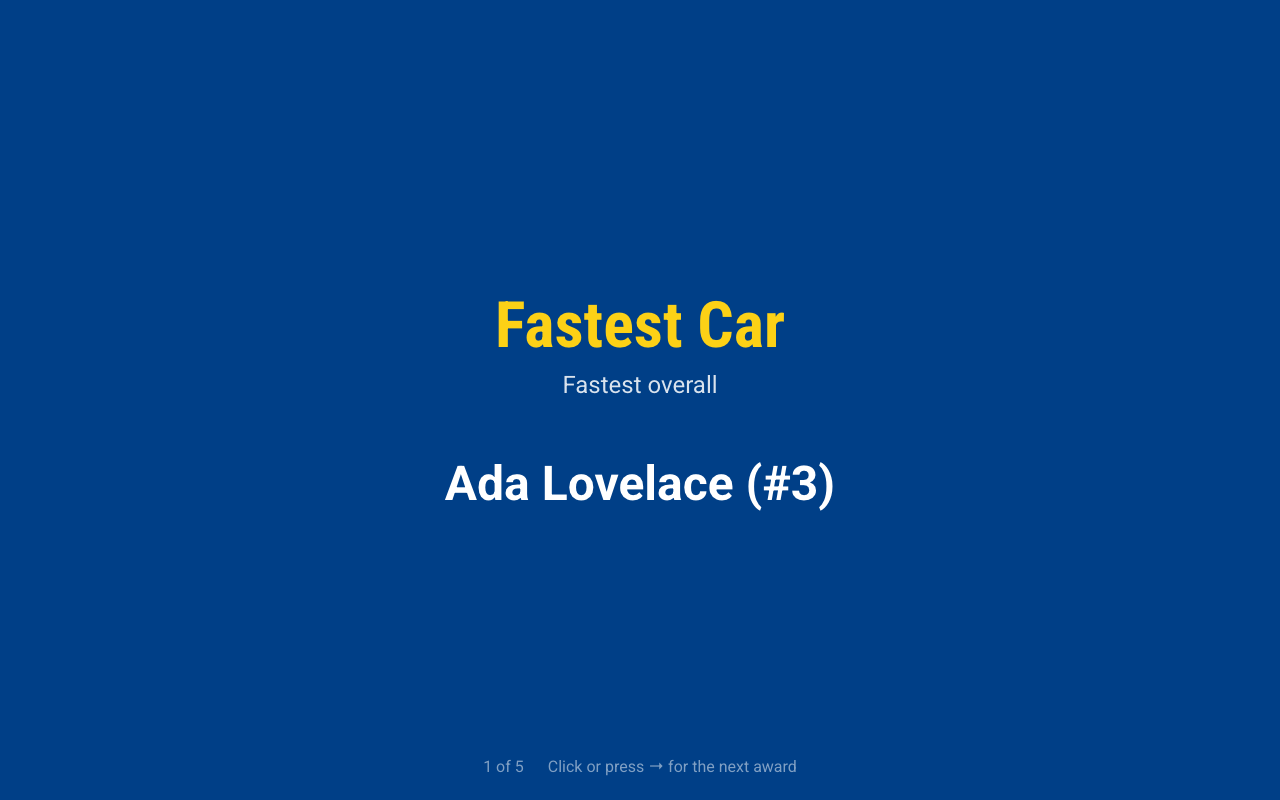
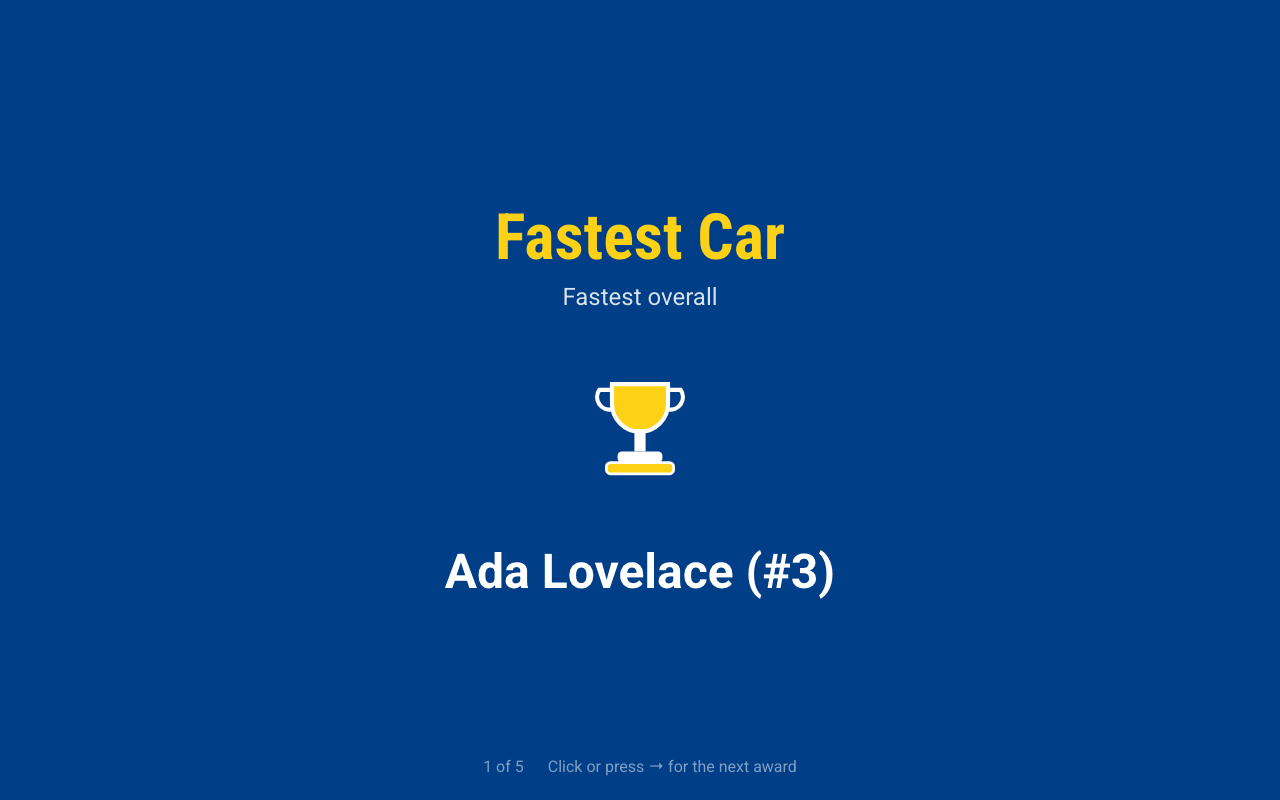
Give award artwork a dark-background palette for the ceremony slide
The clipart added in #378 always stroked its outlines in --scouting-blue,
which is exactly the colour the ceremony slide (AwardCeremony) paints its
own background in — so every trophy, medal and superlative icon went
blue-on-navy the moment it hit the one screen it exists for. #399 reverted
the regenerated ceremony screenshot rather than publish the broken
rendering.

AwardArtwork now takes a variant prop ('light', the default, or 'dark').
Every shape reads a single LINE colour computed from it instead of the
BLUE constant directly, so a shape can't accidentally keep an
invisible-on-navy stroke. AwardCeremony passes variant="dark"; the
certificate and the Awards list pages are untouched and keep the light
palette.

Regenerated docs/assets/screenshots/awards/04-ceremony-slide.png, the only
image the palette change affects — the rest of the doc screenshot set was
re-run too (13/13 specs) but its diffs were unrelated rasterization churn
and were reverted.

Closes #400

Changed region(s): [[0.375, 0.25, 0.625, 0.4375], [0.3438, 0.4688, 0.6562, 0.625], [0.3438, 0.6875, 0.6562, 0.75]]

diff --git a/frontend/src/features/awards/artwork.tsx b/frontend/src/features/awards/artwork.tsx
@@ -15,17 +15,45 @@
  * recognise — an old award, or one a newer build invented — renders nothing
  * rather than throwing, the same "print blank rather than crash" rule the
  * heat sheet follows for a deleted racer.
+ *
+ * `variant` is what makes the artwork legible on both of its two homes
+ * (#400). The certificate and the Awards list sit on the app's ordinary
+ * light background, where the every-shape's outline colour — `--scouting-
+ * blue` — reads fine against white. The ceremony slide (`AwardCeremony`)
+ * paints its *background* in that same navy, so every blue line and blue
+ * fill drawn against it disappeared: the line colour and the page colour
+ * were the same variable. `variant="dark"` swaps every one of those blue
+ * strokes and fills for white, which is why `LINE` — not a second constant
+ * sprinkled through each shape — is threaded through every shape function:
+ * missing one leaves a component that still goes blue-on-navy in exactly the
+ * spot nobody photographs until the ceremony runs for real. Gold is left
+ * alone in both variants; it already has contrast against navy and against
+ * white.
  */
 
 import { ReactElement, ReactNode } from 'react';
 
 const BLUE = 'var(--scouting-blue, #003F87)';
 const GOLD = 'var(--cub-scouting-gold, #FCD116)';
+const WHITE = '#ffffff';
+
+/** Which background this piece is drawn against. Defaults to 'light' — the
+ *  certificate and the Awards list, every caller before the ceremony
+ *  slide's navy background existed. */
+type ArtworkVariant = 'light' | 'dark';
 
 interface ArtworkProps {
   /** Square, in CSS pixels. */
   size?: number;
   className?: string;
+  variant?: ArtworkVariant;
+}
+
+/** The one line/detail colour a shape uses in place of `--scouting-blue`,
+ *  chosen from its background. Every shape below reads `LINE`, never `BLUE`
+ *  directly, so a background-aware palette cannot be half-applied. */
+function lineColor(variant: ArtworkVariant | undefined): string {
+  return variant === 'dark' ? WHITE : BLUE;
 }
 
 function Frame({
@@ -48,56 +76,60 @@ function Frame({
 }
 
 function Trophy(props: ArtworkProps) {
+  const LINE = lineColor(props.variant);
   return (
     <Frame {...props}>
       <path
         d="M30 18h40v14a20 20 0 0 1-40 0z"
         fill={GOLD}
-        stroke={BLUE}
+        stroke={LINE}
         strokeWidth={3}
       />
       <path
         d="M30 22h-9a9 9 0 0 0 9 14M70 22h9a9 9 0 0 1-9 14"
         fill="none"
-        stroke={BLUE}
+        stroke={LINE}
         strokeWidth={3}
       />
-      <rect x="46" y="50" width="8" height="16" fill={BLUE} />
-      <rect x="34" y="66" width="32" height="8" rx="3" fill={BLUE} />
-      <rect x="26" y="74" width="48" height="8" rx="3" fill={GOLD} stroke={BLUE} strokeWidth={2} />
+      <rect x="46" y="50" width="8" height="16" fill={LINE} />
+      <rect x="34" y="66" width="32" height="8" rx="3" fill={LINE} />
+      <rect x="26" y="74" width="48" height="8" rx="3" fill={GOLD} stroke={LINE} strokeWidth={2} />
     </Frame>
   );
 }
 
 function Medal(props: ArtworkProps) {
+  const LINE = lineColor(props.variant);
   return (
     <Frame {...props}>
-      <path d="M38 8 L50 46 L62 8" fill="none" stroke={BLUE} strokeWidth={10} />
-      <circle cx="50" cy="66" r="24" fill={GOLD} stroke={BLUE} strokeWidth={3} />
-      <path d="M50 52 L57 62 L50 80 L43 62 Z" fill={BLUE} />
+      <path d="M38 8 L50 46 L62 8" fill="none" stroke={LINE} strokeWidth={10} />
+      <circle cx="50" cy="66" r="24" fill={GOLD} stroke={LINE} strokeWidth={3} />
+      <path d="M50 52 L57 62 L50 80 L43 62 Z" fill={LINE} />
     </Frame>
   );
 }
 
 function Tortoise(props: ArtworkProps) {
+  const LINE = lineColor(props.variant);
   return (
     <Frame {...props}>
-      <ellipse cx="50" cy="55" rx="30" ry="22" fill={GOLD} stroke={BLUE} strokeWidth={3} />
+      <ellipse cx="50" cy="55" rx="30" ry="22" fill={GOLD} stroke={LINE} strokeWidth={3} />
       <path
         d="M50 33v44M28 43l44 24M72 43 28 67"
-        stroke={BLUE}
+        stroke={LINE}
         strokeWidth={2}
         opacity={0.6}
       />
-      <circle cx="80" cy="46" r="9" fill={GOLD} stroke={BLUE} strokeWidth={3} />
-      <circle cx="26" cy="72" r="7" fill={GOLD} stroke={BLUE} strokeWidth={3} />
-      <circle cx="70" cy="76" r="7" fill={GOLD} stroke={BLUE} strokeWidth={3} />
-      <circle cx="30" cy="34" r="7" fill={GOLD} stroke={BLUE} strokeWidth={3} />
+      <circle cx="80" cy="46" r="9" fill={GOLD} stroke={LINE} strokeWidth={3} />
+      <circle cx="26" cy="72" r="7" fill={GOLD} stroke={LINE} strokeWidth={3} />
+      <circle cx="70" cy="76" r="7" fill={GOLD} stroke={LINE} strokeWidth={3} />
+      <circle cx="30" cy="34" r="7" fill={GOLD} stroke={LINE} strokeWidth={3} />
     </Frame>
   );
 }
 
 function Paintbrush(props: ArtworkProps) {
+  const LINE = lineColor(props.variant);
   return (
     <Frame {...props}>
       <rect
@@ -106,7 +138,7 @@ function Paintbrush(props: ArtworkProps) {
         width="16"
         height="14"
         rx="3"
-        fill={BLUE}
+        fill={LINE}
         transform="rotate(45 50 21)"
       />
       <rect
@@ -120,7 +152,7 @@ function Paintbrush(props: ArtworkProps) {
       <path
         d="M62 56c8 8 8 20-2 26-8 5-18 1-18-8 0-6 4-9 9-9-3-6 3-15 11-9z"
         fill={GOLD}
-        stroke={BLUE}
+        stroke={LINE}
         strokeWidth={3}
       />
     </Frame>
@@ -128,29 +160,31 @@ function Paintbrush(props: ArtworkProps) {
 }
 
 function Palette(props: ArtworkProps) {
+  const LINE = lineColor(props.variant);
   return (
     <Frame {...props}>
       <path
         d="M50 14c-22 0-36 14-36 30 0 12 8 18 16 18 4 0 4-4 2-7-3-4 1-8 6-8h4c14 0 26-11 26-24 0-6-8-9-18-9z"
         fill={GOLD}
-        stroke={BLUE}
+        stroke={LINE}
         strokeWidth={3}
       />
-      <circle cx="38" cy="30" r="4" fill={BLUE} />
+      <circle cx="38" cy="30" r="4" fill={LINE} />
       <circle cx="52" cy="24" r="4" fill="#b60205" />
       <circle cx="64" cy="32" r="4" fill="#2e7d32" />
-      <circle cx="30" cy="44" r="4" fill={BLUE} />
+      <circle cx="30" cy="44" r="4" fill={LINE} />
     </Frame>
   );
 }
 
 function SparkleStar(props: ArtworkProps) {
+  const LINE = lineColor(props.variant);
   return (
     <Frame {...props}>
       <path
         d="M50 12c2 14 6 18 20 20-14 2-18 6-20 20-2-14-6-18-20-20 14-2 18-6 20-20z"
         fill={GOLD}
-        stroke={BLUE}
+        stroke={LINE}
         strokeWidth={3}
       />
       <path d="M78 62c1 6 3 8 9 9-6 1-8 3-9 9-1-6-3-8-9-9 6-1 8-3 9-9z" fill={GOLD} />
@@ -160,19 +194,20 @@ function SparkleStar(props: ArtworkProps) {
 }
 
 function Wing(props: ArtworkProps) {
+  const LINE = lineColor(props.variant);
   return (
     <Frame {...props}>
       <path
         d="M14 62c18-2 30-10 40-32 4 20-2 34-16 42 10-2 18-8 24-18 4 16-4 28-20 32-14 3-26-4-32-16 4 0 3-4 4-8z"
         fill={GOLD}
-        stroke={BLUE}
+        stroke={LINE}
         strokeWidth={3}
         strokeLinejoin="round"
       />
       <path
         d="M26 56c10-2 18-8 24-22M32 66c8-2 15-7 20-16"
         fill="none"
-        stroke={BLUE}
+        stroke={LINE}
         strokeWidth={2}
         opacity={0.6}
       />
@@ -181,30 +216,33 @@ function Wing(props: ArtworkProps) {
 }
 
 function FlagStar(props: ArtworkProps) {
+  const LINE = lineColor(props.variant);
   return (
     <Frame {...props}>
-      <rect x="30" y="14" width="6" height="70" fill={BLUE} />
-      <path d="M36 18h34l-8 12 8 12H36z" fill={GOLD} stroke={BLUE} strokeWidth={3} />
+      <rect x="30" y="14" width="6" height="70" fill={LINE} />
+      <path d="M36 18h34l-8 12 8 12H36z" fill={GOLD} stroke={LINE} strokeWidth={3} />
       <path
         d="M53 24l2.4 5 5.4.6-4 3.7 1.1 5.4L53 36l-4.9 2.7L49.2 33l-4-3.7 5.4-.6z"
-        fill={BLUE}
+        fill={LINE}
       />
     </Frame>
   );
 }
 
 function CompassStar(props: ArtworkProps) {
+  const LINE = lineColor(props.variant);
   return (
     <Frame {...props}>
-      <circle cx="50" cy="50" r="34" fill="none" stroke={BLUE} strokeWidth={4} />
-      <path d="M50 20 L58 50 L50 80 L42 50 Z" fill={GOLD} stroke={BLUE} strokeWidth={2} />
-      <path d="M20 50 L50 42 L80 50 L50 58 Z" fill={BLUE} opacity={0.85} />
-      <circle cx="50" cy="50" r="5" fill={BLUE} />
+      <circle cx="50" cy="50" r="34" fill="none" stroke={LINE} strokeWidth={4} />
+      <path d="M50 20 L58 50 L50 80 L42 50 Z" fill={GOLD} stroke={LINE} strokeWidth={2} />
+      <path d="M20 50 L50 42 L80 50 L50 58 Z" fill={LINE} opacity={0.85} />
+      <circle cx="50" cy="50" r="5" fill={LINE} />
     </Frame>
   );
 }
 
 function Gavel(props: ArtworkProps) {
+  const LINE = lineColor(props.variant);
   return (
     <Frame {...props}>
       <rect
@@ -213,7 +251,7 @@ function Gavel(props: ArtworkProps) {
         width="30"
         height="16"
         rx="3"
-        fill={BLUE}
+        fill={LINE}
         transform="rotate(45 61 26)"
       />
       <rect
@@ -221,7 +259,7 @@ function Gavel(props: ArtworkProps) {
         y="36"
         width="12"
         height="10"
-        fill={BLUE}
+        fill={LINE}
         transform="rotate(45 58 41)"
       />
       <rect
@@ -233,7 +271,7 @@ function Gavel(props: ArtworkProps) {
         fill="#8a5a2b"
         transform="rotate(-30 43 56)"
       />
-      <rect x="18" y="76" width="40" height="8" rx="3" fill={GOLD} stroke={BLUE} strokeWidth={2} />
+      <rect x="18" y="76" width="40" height="8" rx="3" fill={GOLD} stroke={LINE} strokeWidth={2} />
     </Frame>
   );
 }
@@ -267,6 +305,10 @@ export function hasArtwork(key: string | null | undefined): key is string {
  * Null rather than a placeholder box: a plain certificate with no picture is
  * the ordinary state for an award with no template and no `SPEED` rule to
  * derive one from, and a broken-image square would read as an error.
+ *
+ * `variant="dark"` is for the ceremony slide's navy background (#400); every
+ * other caller — the certificate, the Awards list — leaves it at the
+ * default `"light"`.
  */
 export default function AwardArtwork({
   artworkKey,

diff --git a/frontend/src/features/awards/artwork.test.tsx b/frontend/src/features/awards/artwork.test.tsx
@@ -1,0 +1,65 @@
+import { render } from '@testing-library/react';
+import { describe, expect, it } from 'vitest';
+import AwardArtwork, { ARTWORK_KEYS, hasArtwork } from './artwork';
+
+describe('hasArtwork', () => {
+  it('recognises a real key', () => {
+    expect(hasArtwork('trophy')).toBe(true);
+  });
+
+  it('rejects a key from a build that never shipped it — or none at all', () => {
+    expect(hasArtwork('a-key-from-the-future')).toBe(false);
+    expect(hasArtwork(null)).toBe(false);
+    expect(hasArtwork(undefined)).toBe(false);
+  });
+});
+
+describe('AwardArtwork', () => {
+  it('renders nothing for an unrecognised key, rather than a broken-image box', () => {
+    const { container } = render(<AwardArtwork artworkKey="not-a-real-key" />);
+    expect(container.querySelector('svg')).toBeNull();
+  });
+
+  it('defaults to the light-background palette — scouting blue', () => {
+    const { container } = render(<AwardArtwork artworkKey="trophy" />);
+    const svg = container.querySelector('svg')!;
+    expect(svg.innerHTML).toContain('var(--scouting-blue');
+    expect(svg.innerHTML).not.toContain('#ffffff');
+  });
+
+  it('the certificate/Awards-list default (no variant) is identical to variant="light"', () => {
+    const { container: defaulted } = render(<AwardArtwork artworkKey="medal" />);
+    const { container: explicit } = render(<AwardArtwork artworkKey="medal" variant="light" />);
+    expect(defaulted.querySelector('svg')!.innerHTML).toBe(
+      explicit.querySelector('svg')!.innerHTML,
+    );
+  });
+
+  describe('variant="dark" — the ceremony slide (#400)', () => {
+    // The ceremony slide paints its background in `--scouting-blue`, the
+    // same variable every shape used for its outline. Every one of the ten
+    // artwork keys has to lose every trace of that variable on the dark
+    // variant, or that key's turn on the projector is the bug again.
+    it.each(ARTWORK_KEYS)('draws "%s" with no scouting-blue left in it', (key) => {
+      const { container } = render(<AwardArtwork artworkKey={key} variant="dark" />);
+      const svg = container.querySelector('svg')!;
+      expect(svg.innerHTML).not.toContain('var(--scouting-blue');
+    });
+
+    it('swaps the outline for white, and keeps the gold fill', () => {
+      const { container } = render(<AwardArtwork artworkKey="trophy" variant="dark" />);
+      const svg = container.querySelector('svg')!;
+      expect(svg.innerHTML).toContain('#ffffff');
+      expect(svg.innerHTML).toContain('var(--cub-scouting-gold');
+    });
+
+    it('is otherwise the same drawing as the light variant — only the line colour moves', () => {
+      const { container: light } = render(<AwardArtwork artworkKey="tortoise" variant="light" />);
+      const { container: dark } = render(<AwardArtwork artworkKey="tortoise" variant="dark" />);
+      const lightSvg = light.querySelector('svg')!.innerHTML;
+      const darkSvg = dark.querySelector('svg')!.innerHTML;
+      const normalized = darkSvg.split('#ffffff').join('var(--scouting-blue, #003F87)');
+      expect(normalized).toBe(lightSvg);
+    });
+  });
+});

diff --git a/frontend/src/features/awards/pages/AwardCeremony.test.tsx b/frontend/src/features/awards/pages/AwardCeremony.test.tsx
@@ -170,6 +170,16 @@ describe('the award ceremony', () => {
     expect(document.querySelectorAll('svg[role="img"]')).toHaveLength(0);
   });
 
+  it('draws the artwork in the dark-background palette — the slide is navy (#400)', () => {
+    // The slide paints its own background in `--scouting-blue`; the artwork
+    // must not stroke its outlines in the same colour, or they vanish into
+    // the wall behind them, which is what shipped in #378.
+    renderCeremony();
+    const svg = document.querySelector('svg[role="img"]')!;
+    expect(svg.innerHTML).not.toContain('var(--scouting-blue');
+    expect(svg.innerHTML).toContain('#ffffff');
+  });
+
   it('does not claim there are no awards while it is still loading', () => {
     // The empty state and the loading state look identical otherwise, and this
     // one goes on a projector in front of a room.

diff --git a/frontend/src/features/awards/pages/AwardCeremony.tsx b/frontend/src/features/awards/pages/AwardCeremony.tsx
@@ -161,7 +161,10 @@ export default function AwardCeremony() {
               the slide is exactly as it was before this existed. */}
           {slide.artworkKey && (
             <div style={{ margin: '3vh 0 1vh' }}>
-              <AwardArtwork artworkKey={slide.artworkKey} size={140} />
+              {/* dark: the slide's background is the same navy the artwork's
+                  outlines default to (#400) — without this every line in the
+                  icon matches the wall behind it. */}
+              <AwardArtwork artworkKey={slide.artworkKey} size={140} variant="dark" />
             </div>
           )}
 
